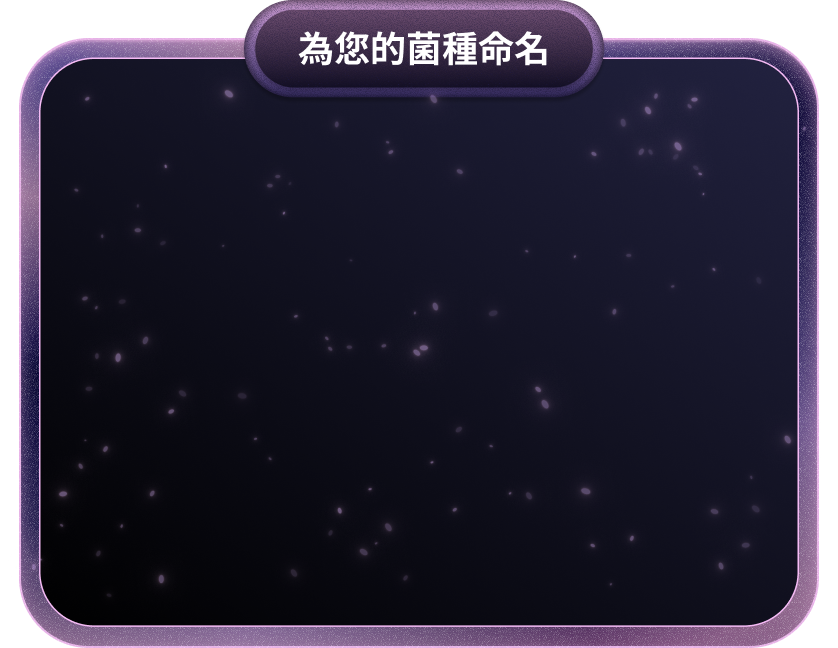
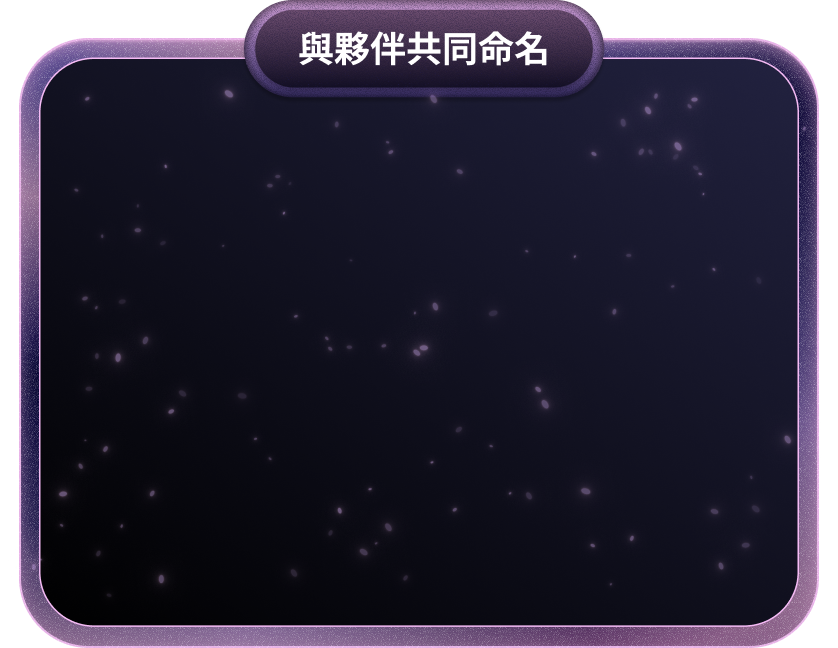
first commit

Changed region(s): [[0.3413, 0.0309, 0.5895, 0.1235]]

diff --git a/src/js/Showcase.js b/src/js/Showcase.js
@@ -14,8 +14,8 @@ const Showcase = () => {
   // 手動輸入兩筆測試資料
   const [data, setData] = useState(() => [
     {
-      imageURL:"/bio_1.png",
-      name:"輸不起工作室",
+      imageURL: "/bio_1.png",
+      name: "輸不起工作室",
       bio_id: "0002",
       createdAt: "25.02.25",
       nicknames: {
@@ -26,7 +26,17 @@ const Showcase = () => {
       totalCorrect: 7
     }
   ]);
-  
+
+  // 目前頁面狀態
+  const [currentPage, setCurrentPage] = useState(0);
+  const itemsPerPage = 8; // 每頁顯示的卡片數量
+
+
+  // 計算當前頁面顯示的卡片
+  const startIndex = currentPage * itemsPerPage;
+  const endIndex = Math.min(startIndex + itemsPerPage, data.length);
+  const currentItems = data.slice(startIndex, endIndex);
+
   const [isOriginal, setIsOriginal] = useState(Array(data.length).fill(true));
 
   // const [data, setData] = useState([]); // 存放後端返回的卡片數據
@@ -54,7 +64,7 @@ const Showcase = () => {
     setIsOriginal((prev) => [...prev, true]); // 新增 isOriginal 狀態
   };
 
-  
+
   // 预加载所有图片
   useEffect(() => {
     const preloadImages = (imageUrls) => {
@@ -90,7 +100,7 @@ const Showcase = () => {
   //   loadData();
   // }, []);
 
- // 請求後端數據
+  // 請求後端數據
   useEffect(() => {
     const loadData = async () => {
       try {
@@ -129,7 +139,7 @@ const Showcase = () => {
     container: {
       display: 'grid',
       gridTemplateColumns: 'repeat(4, 1fr)',
-      rowGap: '10px',
+      rowGap: '20px',
       columnGap: '35px',
       justifyContent: 'center',
       alignItems: 'center',
@@ -139,7 +149,6 @@ const Showcase = () => {
       width: '100%',
       minWidth: '400px',
       height: '400px',
-      marginTop: '45px',
       display: 'flex',
       justifyContent: 'center',
       alignItems: 'center',

diff --git a/src/css/Showcase.css b/src/css/Showcase.css
@@ -27,7 +27,7 @@
 /* 内容容器 */
 .showcase-content {
   position: relative;
-  padding-top: 120px;
+  padding-top: 180px;
   /* 确保内容在 Header 下方 */
   /* max-height: calc(100vh);  */
   /* 保证内容区域不会超出页面 */
@@ -35,6 +35,8 @@
   /* 包括内边距 */
   left: 12.5%;
   bottom: 5%;
+  width: 100%;
+  height: 100%;
 }
 
 /* .row-showcase {
@@ -47,8 +49,9 @@
 
 
 .row-showcase{
-  width: 75%;
+  width: 80%;
 }
+
 
 /* 卡片資訊 */
 .card-info {

diff --git a/src/js/Reward.js b/src/js/Reward.js
@@ -19,6 +19,7 @@ const Reward = () => {
   const location = useLocation();
   const imageURL = location.state?.URL || false; // 如果沒有數據則給預設值
   const bio_id = location.state?.bio_id || false; // 如果沒有數據則給預設值
+  const [isSubmitted, setIsSubmitted] = useState(false); 
 
   // const handleBack = () => {
   //   setShowPopup(true);
@@ -65,6 +66,12 @@ const Reward = () => {
       alert("請輸入菌種名稱");
       return;
     }
+
+    if (!isSubmitted) {
+      setIsSubmitted(true); // 設定已提交
+      alert("請等待另一名玩家確認");
+    }
+    
     socket.emit("submit_name", { userId: userId.userId, bio_id, strainName });
   };
 